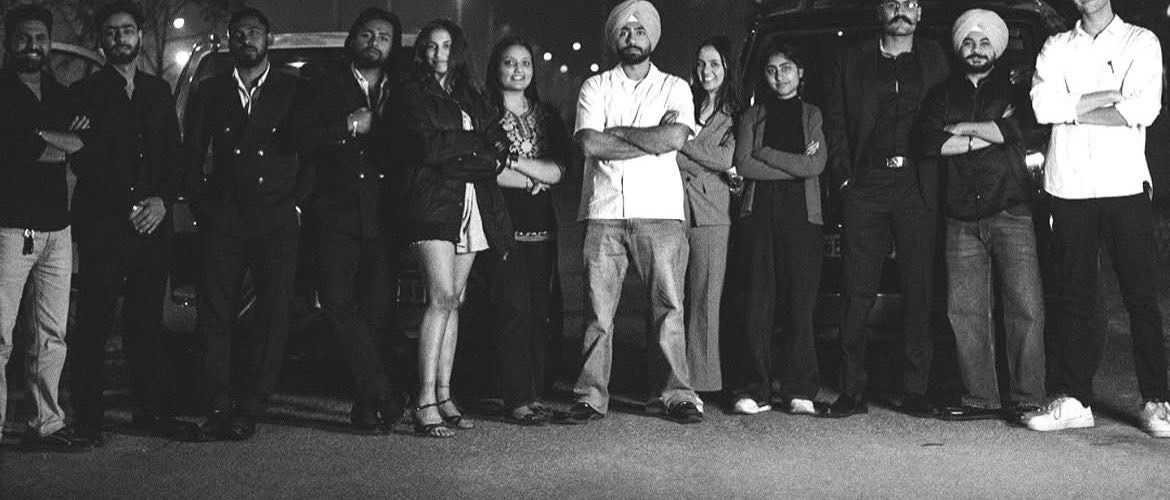
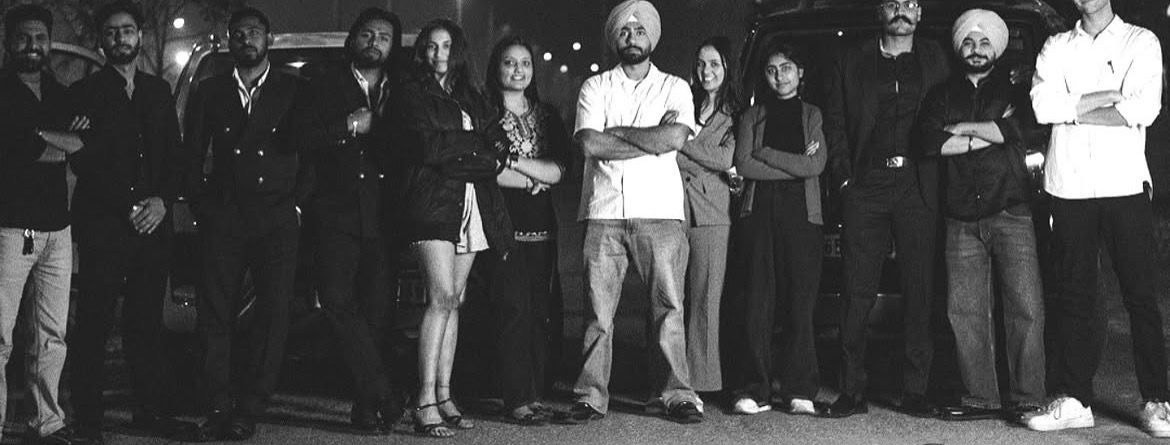
Fix page scroll getting stuck on testimonials, crop team photo tighter
- Fix real bug: a trackpad's "vertical" scroll gesture almost always
  carries a tiny horizontal component. Since the testimonials track
  scrolls horizontally, the browser was swallowing the whole gesture
  trying to scroll it sideways, making the page feel stuck whenever
  scroll passed through this section. Now forwards vertically-dominant
  wheel events to the page instead of letting the track eat them.
  Verified: page scroll works through the section, and the carousel's
  own horizontal navigation (buttons, drag, deliberate horizontal
  scroll) still works exactly as before.
- Crop the "Built Different" team photo even tighter — removes
  nearly all the empty ground below people's feet while keeping a
  safety margin above every head so nothing gets cut off

diff --git a/src/components/Testimonials/Testimonials.jsx b/src/components/Testimonials/Testimonials.jsx
@@ -70,6 +70,26 @@ export default function Testimonials({ number = '05' }) {
     return () => ctx.revert();
   }, []);
 
+  useEffect(() => {
+    const track = trackRef.current;
+    if (!track) return;
+
+    // A trackpad's "vertical" scroll almost always carries a tiny horizontal
+    // component. Since this track scrolls horizontally, the browser would
+    // otherwise swallow the whole gesture trying to scroll it sideways,
+    // making the page feel stuck here. When the gesture is vertically
+    // dominant, forward it to the page instead of letting the track eat it.
+    const handleWheel = (e) => {
+      if (Math.abs(e.deltaY) > Math.abs(e.deltaX)) {
+        e.preventDefault();
+        window.scrollBy(0, e.deltaY);
+      }
+    };
+
+    track.addEventListener('wheel', handleWheel, { passive: false });
+    return () => track.removeEventListener('wheel', handleWheel);
+  }, []);
+
   const scrollToSlide = useCallback((index) => {
     const track = trackRef.current;
     if (!track) return;

diff --git a/src/components/Testimonials/Testimonials.css b/src/components/Testimonials/Testimonials.css
@@ -57,11 +57,13 @@
   display: flex;
   gap: var(--space-lg);
   overflow-x: auto;
-  scroll-snap-type: x mandatory;
+  overflow-y: hidden;
+  scroll-snap-type: x proximity;
   scroll-behavior: smooth;
   padding-bottom: var(--space-sm);
   -webkit-overflow-scrolling: touch;
   scrollbar-width: none;
+  overscroll-behavior-x: contain;
 }
 
 .testimonials-track::-webkit-scrollbar {
